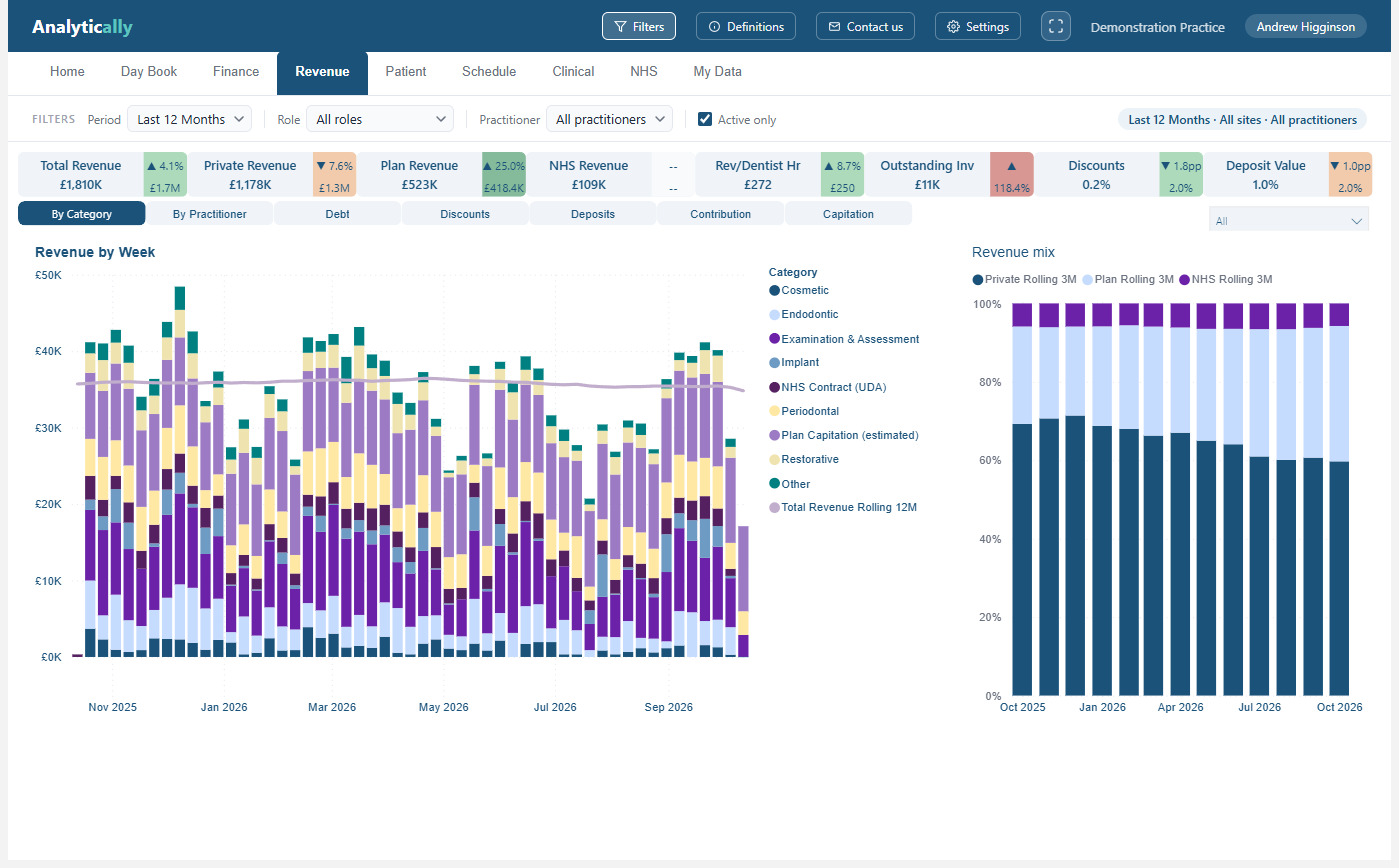
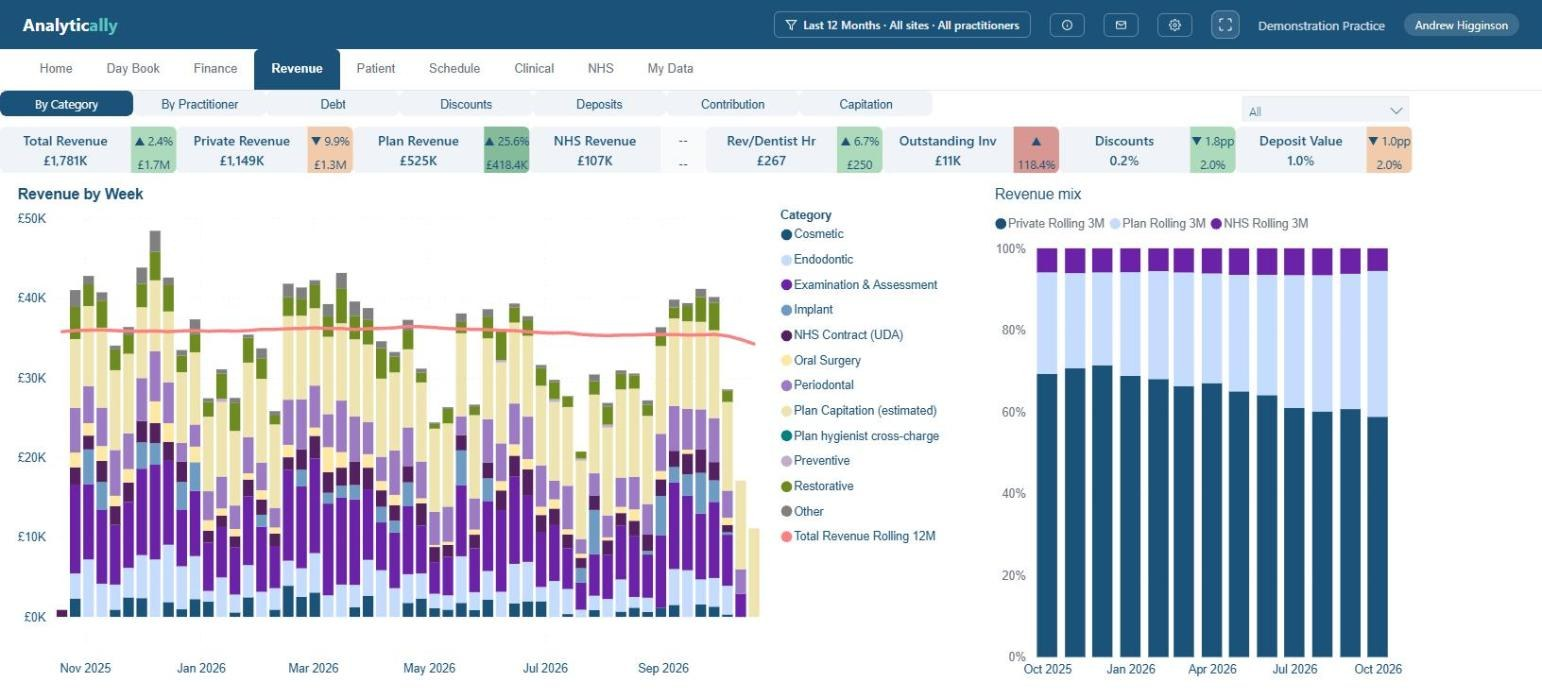
docs(site): re-shoot blind-spot.html against the current app
The five screenshots predate the layout change that collapsed the FILTERS row into the
header chip, so every tile sat ~45px lower than it does now.

That row mattered more than it looks: the pins are positioned as a PERCENTAGE OF THE
IMAGE, so all 19 of them would have pointed at the wrong rows, and the captions quote
figures read off the screenshots, which the demo data has moved under.

Re-shot from demo.analytically.info (NOT app.analytically.info -- that opens on Maple, and
their real revenue and patient counts must never reach a public page). Pins re-aimed
against the new captures and verified in a local render; 11 quoted values corrected in
both the captions AND the body prose, which quotes them too.

Two new captures are added but NOT yet referenced: 04-revenue-by-practitioner and
05-diary-fill-and-utilisation, for the diary-filling and practitioner-comparison arguments
the owner wants to add.

==> 09-mydata-associate NEEDS A DECISION, NOT A FIND-AND-REPLACE. <== Its notes 2 and 3
are "diary fill 106%, booked beyond the hours she works" and "five days to her next
half-hour slot". The practitioner shown now runs 88.5% and 2 days, so both points
collapse. Those figures are left stale deliberately rather than quietly rewritten into a
weaker argument.

Claude-Session: https://claude.ai/code/session_018TcAKCVe5d4eGHr5G1wjZ6

diff --git a/Website/blind-spot.html b/Website/blind-spot.html
@@ -318,22 +318,22 @@
       <h2 class="beat-title">Half the income isn’t in the system they are reading</h2>
     </div>
     <div class="col">
-      <p class="lead">This practice’s private revenue is <strong>£1,178K, down 7.6%</strong> against target. In Dentally, that is the whole story.</p>
-      <p>In reality this is offset by plan income being <strong>up 25.0%</strong>, and Dentally does not record it at all, because the plan provider collects it. So a practice that has been converting patients onto monthly plans appears in its own clinical system as a business in decline. Total revenue is <strong>up 4.1%</strong>. The income has changed shape rather than shrunk, and a year-end set of accounts shows that nine months late.</p>
+      <p class="lead">This practice’s private revenue is <strong>£1,149K, down 9.9%</strong> against target. In Dentally, that is the whole story.</p>
+      <p>In reality this is offset by plan income being <strong>up 25.6%</strong>, and Dentally does not record it at all, because the plan provider collects it. So a practice that has been converting patients onto monthly plans appears in its own clinical system as a business in decline. Total revenue is <strong>up 2.4%</strong>. The income has changed shape rather than shrunk, and a year-end set of accounts shows that nine months late.</p>
     </div>
     <figure>
       <div class="shot">
         <img src="/img/blind-spot/01-revenue-by-category.jpg" alt="Revenue page: KPI strip with total, private and plan revenue against target, weekly revenue stacked by treatment category, and a rolling revenue mix chart.">
-        <span class="pin" style="--x:13.4%; --y:20.7%">1</span>
-        <span class="pin" style="--x:25.5%; --y:20.7%">2</span>
-        <span class="pin" style="--x:1.4%; --y:20.7%">3</span>
-        <span class="pin" style="--x:83.6%; --y:52.0%">4</span>
+        <span class="pin" style="--x:9.1%; --y:24.0%">1</span>
+        <span class="pin" style="--x:20.6%; --y:24.0%">2</span>
+        <span class="pin" style="--x:1.5%; --y:24.0%">3</span>
+        <span class="pin" style="--x:83.6%; --y:71.9%">4</span>
       </div>
       <figcaption>
         <ul class="notes">
-          <li><span class="n">1</span><span class="t"><b>What the practice sees.</b> Private revenue <span class='fig'>£1,178K</span>, <span class='fig'>−7.6%</span>.</span></li>
-          <li><span class="n">2</span><span class="t"><b>What it doesn’t.</b> Plan capitation <span class='fig'>£523K</span>, <span class='fig'>+25.0%</span>.</span></li>
-          <li><span class="n">3</span><span class="t">Together: <span class='fig'>£1,810K</span>, <span class='fig'>+4.1%</span>.</span></li>
+          <li><span class="n">1</span><span class="t"><b>What the practice sees.</b> Private revenue <span class='fig'>£1,149K</span>, <span class='fig'>−9.9%</span>.</span></li>
+          <li><span class="n">2</span><span class="t"><b>What it doesn’t.</b> Plan capitation <span class='fig'>£525K</span>, <span class='fig'>+25.6%</span>.</span></li>
+          <li><span class="n">3</span><span class="t">Together: <span class='fig'>£1,781K</span>, <span class='fig'>+2.4%</span>.</span></li>
           <li><span class="n">4</span><span class="t">The mix column is the point in one picture, private falling from roughly <span class='fig'>70%</span> of revenue to <span class='fig'>60%</span> while plan income rises to meet it. Thirteen months, one direction.</span></li>
         </ul>
       </figcaption>
@@ -352,9 +352,9 @@
     <figure>
       <div class="shot">
         <img src="/img/blind-spot/02-capitation-plans-and-cross-charge.jpg" alt="Capitation page: plan membership and monthly fee by tier for a complete month, with cross-charge columns and a per-practitioner breakdown.">
-        <span class="pin" style="--x:20.3%; --y:35.0%">1</span>
-        <span class="pin" style="--x:38.5%; --y:35.0%">2</span>
-        <span class="pin" style="--x:72.1%; --y:39.0%">3</span>
+        <span class="pin" style="--x:6.8%; --y:52.9%">1</span>
+        <span class="pin" style="--x:13.9%; --y:52.9%">2</span>
+        <span class="pin" style="--x:59.6%; --y:33.7%">3</span>
       </div>
       <figcaption>
         <ul class="notes">
@@ -373,24 +373,24 @@
     </div>
     <div class="col">
       <p class="lead">We jumped to revenue because that is often seen as THE key metric. But it is important to see the health of all areas at a glance. Analytically has a range of KPIs covering every aspect of the practice’s performance.</p>
-      <p>Start with the one number an owner would act on: <strong>Dentist Retention </strong><strong><span class='fig'>84.1%</span></strong><strong> against a </strong><strong><span class='fig'>90%</span></strong><strong> target</strong>. The standard remedy is to book the next appointment before the patient leaves the building, and that tile is on the same screen: <strong>Book Before Leave, </strong><strong><span class='fig'>49.6%</span></strong><strong> against </strong><strong><span class='fig'>65%</span></strong>. In the same column, <strong>cancellations are already over target</strong>, and booking further ahead is what drives that number up. The next screen shows it happening. The clinical column reads the same way in money: <strong>Exam Ratio </strong><strong><span class='fig'>69.0%</span></strong><strong>, ahead of target</strong>, and <strong><span class='fig'>172</span></strong><strong> courses of treatment with no next appointment booked</strong>.</p>
+      <p>Start with the one number an owner would act on: <strong>Dentist Retention </strong><strong><span class='fig'>77.1%</span></strong><strong> against a </strong><strong><span class='fig'>90%</span></strong><strong> target</strong>. The standard remedy is to book the next appointment before the patient leaves the building, and that tile is on the same screen: <strong>Book Before Leave, </strong><strong><span class='fig'>48.6%</span></strong><strong> against </strong><strong><span class='fig'>65%</span></strong>. In the same column, <strong>cancellations are already over target</strong>, and booking further ahead is what drives that number up. The next screen shows it happening. The clinical column reads the same way in money: <strong>Exam Ratio </strong><strong><span class='fig'>69.0%</span></strong><strong>, ahead of target</strong>, and <strong><span class='fig'>163</span></strong><strong> courses of treatment with no next appointment booked</strong>.</p>
     </div>
     <figure>
       <div class="shot">
         <img src="/img/blind-spot/03-home-board-12-months.jpg" alt="Home board: five columns of metric tiles for Revenue, Patients, Scheduling, Clinical and NHS, each with value, variance and target.">
-        <span class="pin" style="--x:20.8%; --y:34.4%">1</span>
-        <span class="pin" style="--x:40.2%; --y:53.9%">2</span>
-        <span class="pin" style="--x:40.2%; --y:40.9%">3</span>
-        <span class="pin" style="--x:59.8%; --y:60.4%">4</span>
-        <span class="pin" style="--x:59.8%; --y:53.9%">5</span>
+        <span class="pin" style="--x:18.5%; --y:39.2%">1</span>
+        <span class="pin" style="--x:37.0%; --y:65.9%">2</span>
+        <span class="pin" style="--x:37.0%; --y:48.0%">3</span>
+        <span class="pin" style="--x:55.3%; --y:75.0%">4</span>
+        <span class="pin" style="--x:55.3%; --y:66.1%">5</span>
       </div>
       <figcaption>
         <ul class="notes">
-          <li><span class="n">1</span><span class="t"><b>Dentist Retention </b><b><span class='fig'>84.1%</span></b><b> against </b><b><span class='fig'>90%</span></b><b>.</b> The number that starts the conversation.</span></li>
-          <li><span class="n">2</span><span class="t"><b>Book Before Leave </b><b><span class='fig'>49.6%</span></b><b> against </b><b><span class='fig'>65%</span></b><b>.</b> Half of patients walk out with no next appointment. This is the remedy, and it is the thing not happening.</span></li>
-          <li><span class="n">3</span><span class="t"><b>Cancellations </b><b><span class='fig'>37.1%</span></b><b> against </b><b><span class='fig'>31%</span></b><b>.</b> Fix the tile below and this one gets worse before it gets better. The next screen is why.</span></li>
+          <li><span class="n">1</span><span class="t"><b>Dentist Retention </b><b><span class='fig'>77.1%</span></b><b> against </b><b><span class='fig'>90%</span></b><b>.</b> The number that starts the conversation.</span></li>
+          <li><span class="n">2</span><span class="t"><b>Book Before Leave </b><b><span class='fig'>48.6%</span></b><b> against </b><b><span class='fig'>65%</span></b><b>.</b> Half of patients walk out with no next appointment. This is the remedy, and it is the thing not happening.</span></li>
+          <li><span class="n">3</span><span class="t"><b>Cancellations </b><b><span class='fig'>36.8%</span></b><b> against </b><b><span class='fig'>31%</span></b><b>.</b> Fix the tile below and this one gets worse before it gets better. The next screen is why.</span></li>
           <li><span class="n">4</span><span class="t"><b>Exam Ratio </b><b><span class='fig'>69.0%</span></b><b>, ahead.</b> The board is not uniformly bad. The diagnosis is being done.</span></li>
-          <li><span class="n">5</span><span class="t"><b><span class='fig'>172</span></b><b> courses with no next appointment.</b> Diagnosed, started, and nobody booked to finish it.</span></li>
+          <li><span class="n">5</span><span class="t"><b><span class='fig'>163</span></b><b> courses with no next appointment.</b> Diagnosed, started, and nobody booked to finish it.</span></li>
         </ul>
       </figcaption>
     </figure>
@@ -408,9 +408,9 @@
     <figure>
       <div class="shot">
         <img src="/img/blind-spot/12-cancellations-by-reason.jpg" alt="Cancellations by reason stacked weekly across thirteen months, with a legend of patient and practice-side reasons, beside short-notice and DNA trends.">
-        <span class="pin" style="--x:19.6%; --y:45.0%">1</span>
-        <span class="pin" style="--x:35.7%; --y:34.4%">2</span>
-        <span class="pin" style="--x:28.9%; --y:34.2%">3</span>
+        <span class="pin" style="--x:17.0%; --y:53.9%">1</span>
+        <span class="pin" style="--x:33.0%; --y:49.7%">2</span>
+        <span class="pin" style="--x:24.0%; --y:37.2%">3</span>
       </div>
       <figcaption>
         <ul class="notes">
@@ -435,14 +435,14 @@
     <figure>
       <div class="shot">
         <img src="/img/blind-spot/09-mydata-associate.jpg" alt="A single associate's page and nothing else: revenue, revenue per clinical hour, chair utilisation, diary fill, days to the next half-hour slot, and open courses with and without a booked appointment, each against that practitioner's target.">
-        <span class="pin" style="--x:17.4%; --y:16.6%">1</span>
-        <span class="pin" style="--x:82.0%; --y:16.6%">2</span>
-        <span class="pin" style="--x:1.3%; --y:23.0%">3</span>
-        <span class="pin" style="--x:65.9%; --y:23.0%">4</span>
+        <span class="pin" style="--x:14.3%; --y:21.2%">1</span>
+        <span class="pin" style="--x:75.9%; --y:21.2%">2</span>
+        <span class="pin" style="--x:1.5%; --y:28.7%">3</span>
+        <span class="pin" style="--x:60.5%; --y:28.7%">4</span>
       </div>
       <figcaption>
         <ul class="notes">
-          <li><span class="n">1</span><span class="t"><b><span class='fig'>£267</span></b><b> an hour against </b><b><span class='fig'>£180</span></b><b>.</b> On production she is the best in the practice, and she knows it.</span></li>
+          <li><span class="n">1</span><span class="t"><b><span class='fig'>£277</span></b><b> an hour against </b><b><span class='fig'>£180</span></b><b>.</b> On production she is the best in the practice, and she knows it.</span></li>
           <li><span class="n">2</span><span class="t"><b>Diary fill </b><b><span class='fig'>106%</span></b><b>.</b> Booked beyond the hours she works, the overrun everyone feels and nobody had measured.</span></li>
           <li><span class="n">3</span><span class="t"><b><span class='fig'>Five days</span></b><b> to her next half-hour slot.</b> A patient who rings on Monday with something wrong is seen the following week.</span></li>
           <li><span class="n">4</span><span class="t"><b><span class='fig'>63</span></b><b> started courses with no next appointment.</b> The work is half done and has no date on it, which is also £12K not yet invoiced.</span></li>
